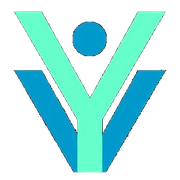
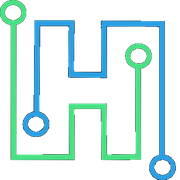
fix

diff --git a/README.md b/README.md
@@ -1,0 +1,82 @@
+# HappyBein – Astro Site
+
+Built with [Astro](https://astro.build) + [Tailwind CSS](https://tailwindcss.com).  
+Deployed on [Cloudflare Pages](https://pages.cloudflare.com).
+
+## Version: 1.5 · May 2026
+
+## Quick Start
+
+```bash
+# Install dependencies
+npm install
+
+# Start dev server (http://localhost:4321)
+npm run dev
+
+# Build for production
+npm run build
+
+# Preview production build
+npm run preview
+```
+
+## Deploy to Cloudflare Pages
+
+### Option A — GitHub (recommended, auto-deploy on push)
+1. Push this repo to GitHub
+2. Go to Cloudflare Pages → Create a project → Connect to Git
+3. Select your repo
+4. Set build settings:
+   - **Build command:** `npm run build`
+   - **Build output directory:** `dist`
+   - **Node version:** `18` or higher (set in Environment Variables: `NODE_VERSION = 18`)
+5. Add your custom domain `happybein.com` under Custom Domains
+
+### Option B — Direct upload
+1. Run `npm run build` locally
+2. Upload the `dist/` folder to Cloudflare Pages → Direct Upload
+
+## Project Structure
+
+```
+src/
+├── components/
+│   ├── Nav.astro           # Shared navigation (auto-updates from site.ts)
+│   ├── Footer.astro        # Shared footer
+│   └── InitiativeCard.astro # Reusable initiative card with collapsible
+├── data/
+│   ├── site.ts             # ← Edit version, nav links, social links here
+│   └── initiatives.ts      # ← Add/edit initiatives here
+├── layouts/
+│   └── Base.astro          # Shared HTML shell + SEO tags
+├── pages/
+│   ├── index.astro         # Home
+│   ├── initiatives.astro   # All initiatives
+│   ├── manifesto.astro     # The HappyBein Manifesto
+│   ├── roadmap.astro       # YeahVibe Roadmap
+│   └── contact.astro       # Connect & Collaborate
+└── styles/
+    └── global.css          # Tailwind + custom component styles
+public/
+├── images/logo.png         # HappyBein logo (transparent PNG)
+├── robots.txt              # Bot crawling rules
+├── _redirects              # Cloudflare Pages URL redirects
+├── _headers                # HTTP headers (cache, security)
+└── llms.txt                # AI crawler metadata
+
+```
+
+## How to Update Version
+
+Edit `src/data/site.ts`:
+```ts
+version: '1.6',
+versionDate: 'June 2026',
+```
+That's it — version updates everywhere automatically (nav bar, footer, llms.txt).
+
+## How to Add a New Initiative
+
+Edit `src/data/initiatives.ts` — add a new object to the `initiatives` array.  
+The card appears automatically on `/initiatives` and in the nav dropdown.